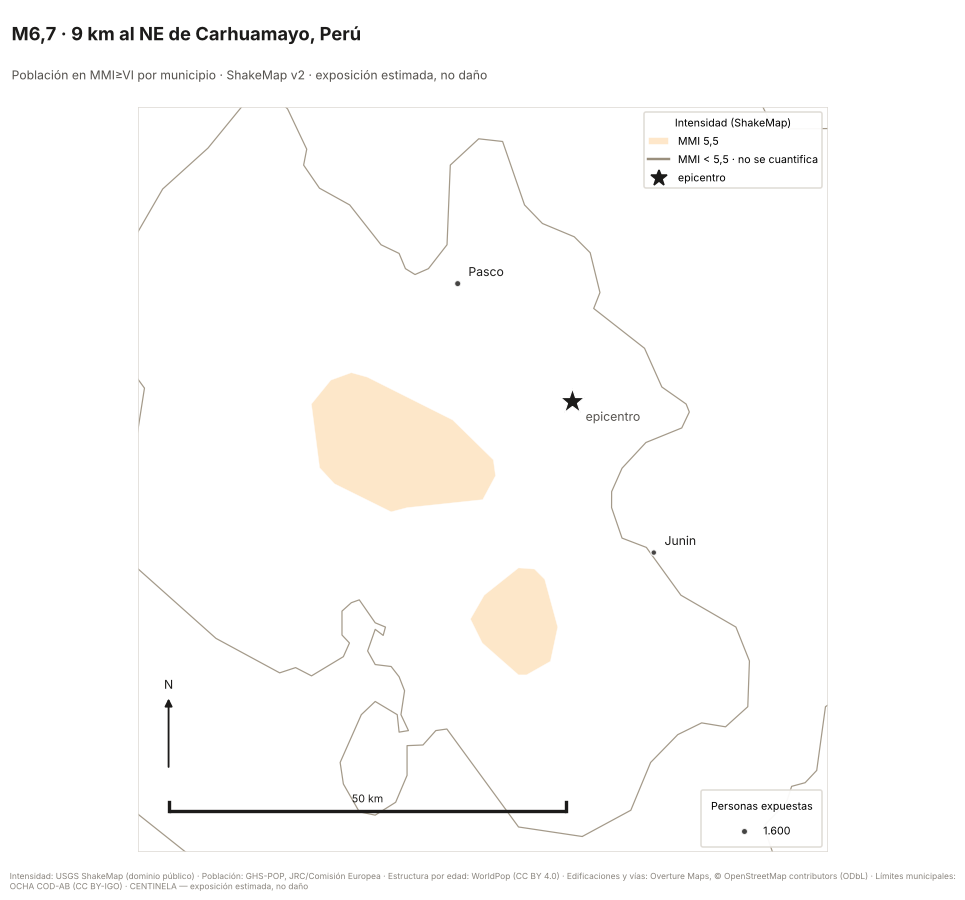
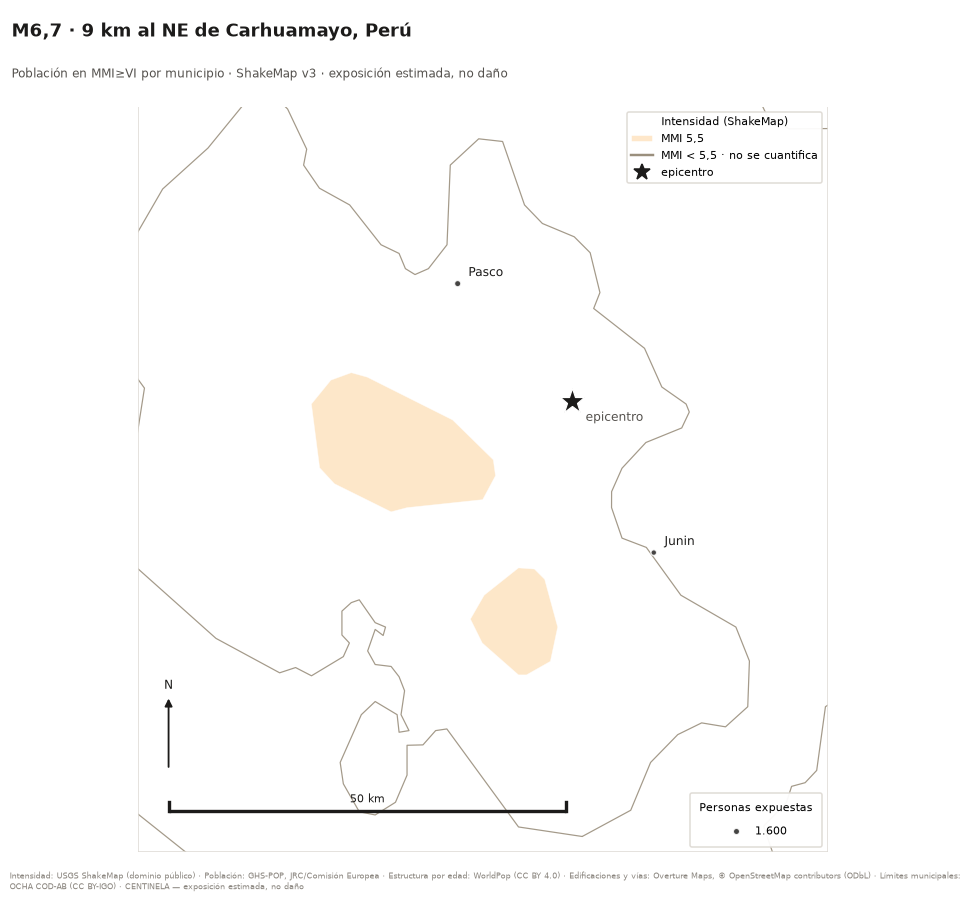
P3: reporte de pt26325050

diff --git a/reports/pt26325050/report.md b/reports/pt26325050/report.md
@@ -36,7 +36,7 @@ Las dos cifras se cuentan sobre las celdas del corte publicado (MMI≥VI). **No 
 
 **Y el umbral se evalúa en un solo punto por celda: su centroide.** El píxel del ráster es más pequeño que la celda, así que ese punto decide si entra la población entera de la celda o no entra ninguna. No es una estadística areal, y el sesgo que introduce no está medido: puede quedarse corto o pasarse.
 
-Fuente: producto *Ground Failure* de USGS (v2), dominio público.
+Fuente: producto *Ground Failure* de USGS (v3), dominio público.
 
 ## Referencia cruzada
 
@@ -50,6 +50,9 @@ Discrepancia entre GHS-POP y WorldPop en las bandas MMI publicadas: **30,7 %**.
 
 ## Cambios frente a la versión anterior
 
+- ShakeMap: v2 (us) → v3 (us)
+- Ground Failure: v2 (us) → v3 (us)
+- Ninguna cifra publicada cambia frente a la versión anterior.
 - Recálculo con el mismo ShakeMap v2 (us) (cambió el cálculo o el activo de exposición, no USGS)
 - Cambio de convención: las franjas son ahora las clases de intensidad del USGS (VI desde MMI 5,5, VII desde 6,5, VIII desde 7,5), no decimales literales (≥6,0 / ≥7,0 / ≥8,0). Las cifras cambian por la regla, no por los datos.
 - Población en MMI≥VI: 0 → 1.800
@@ -68,10 +71,10 @@ Discrepancia entre GHS-POP y WorldPop en las bandas MMI publicadas: **30,7 %**.
 
 ## Procedencia
 
-- ShakeMap consumido: **v2** de `us`
-- Ground Failure consumido: **v2** de `us`
+- ShakeMap consumido: **v3** de `us`
+- Ground Failure consumido: **v3** de `us`
 - Manifiesto de exposición: [`per-v0.5`](https://github.com/sforero77/CENTINELA/blob/main/data/manifests/PER.yaml)
-- Pipeline: `0.1.0` · Generado: 2026-11-21T16:28:18Z
+- Pipeline: `0.1.0` · Generado: 2026-11-22T13:34:01Z
 
 ## Advertencias
 
